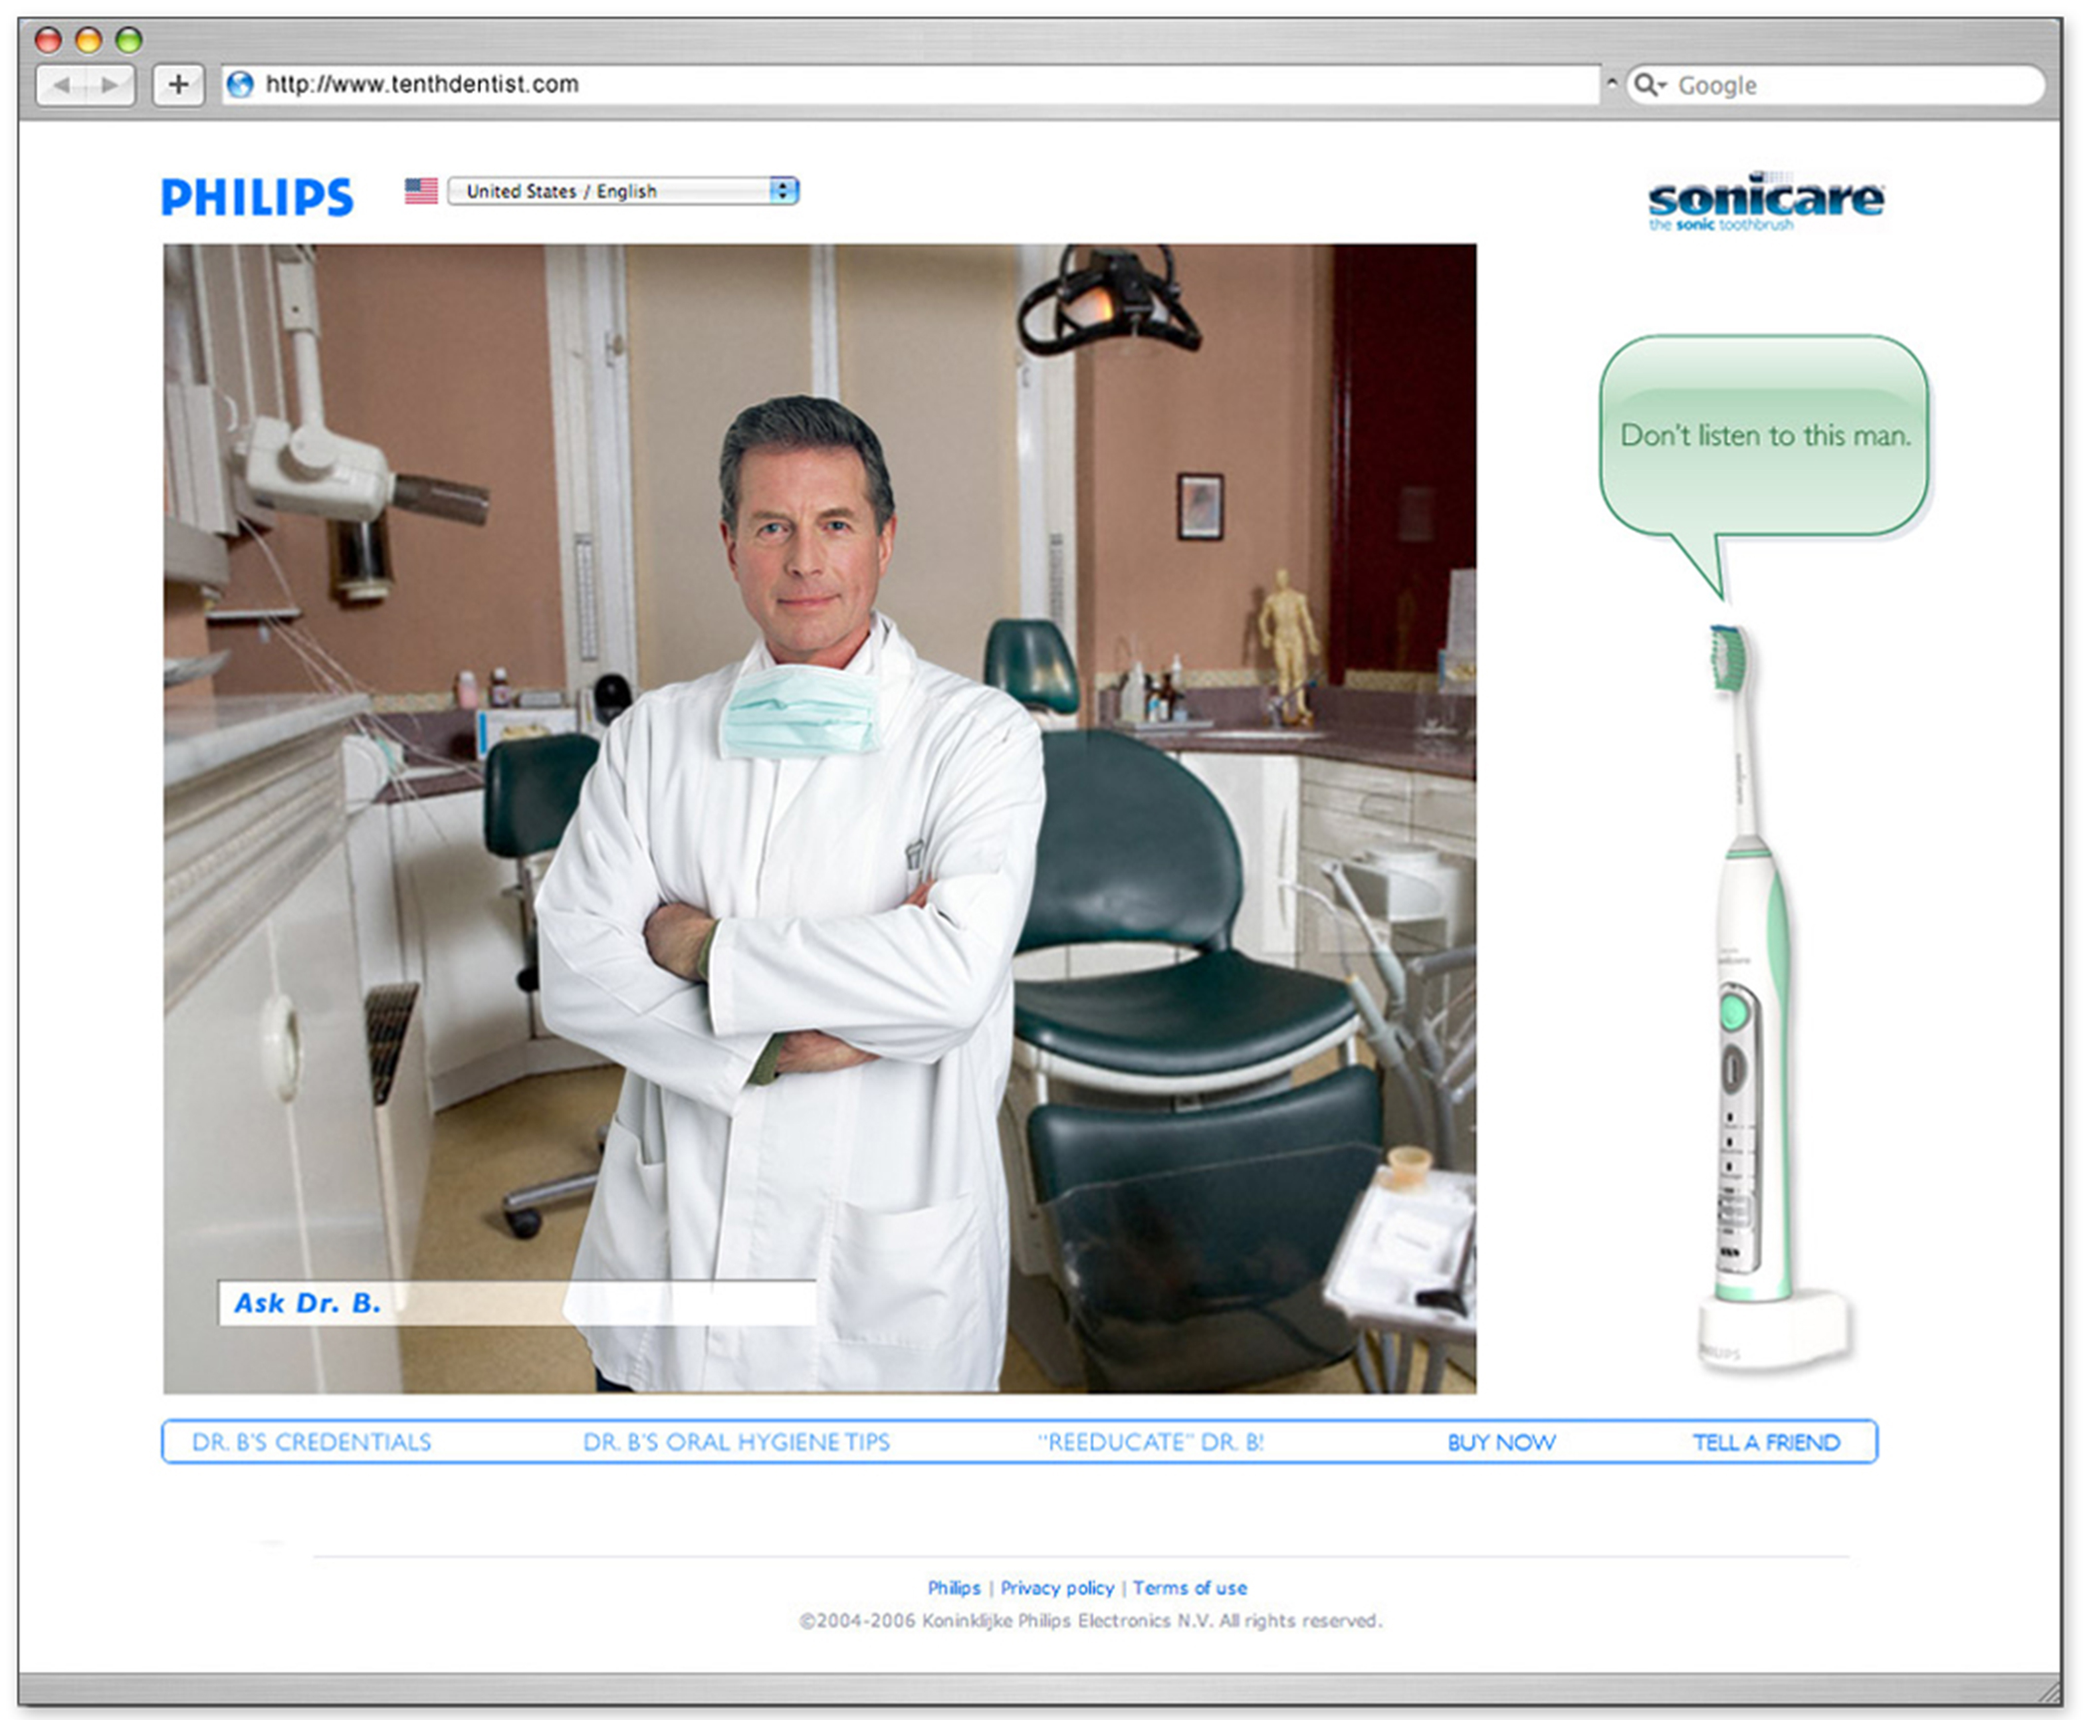
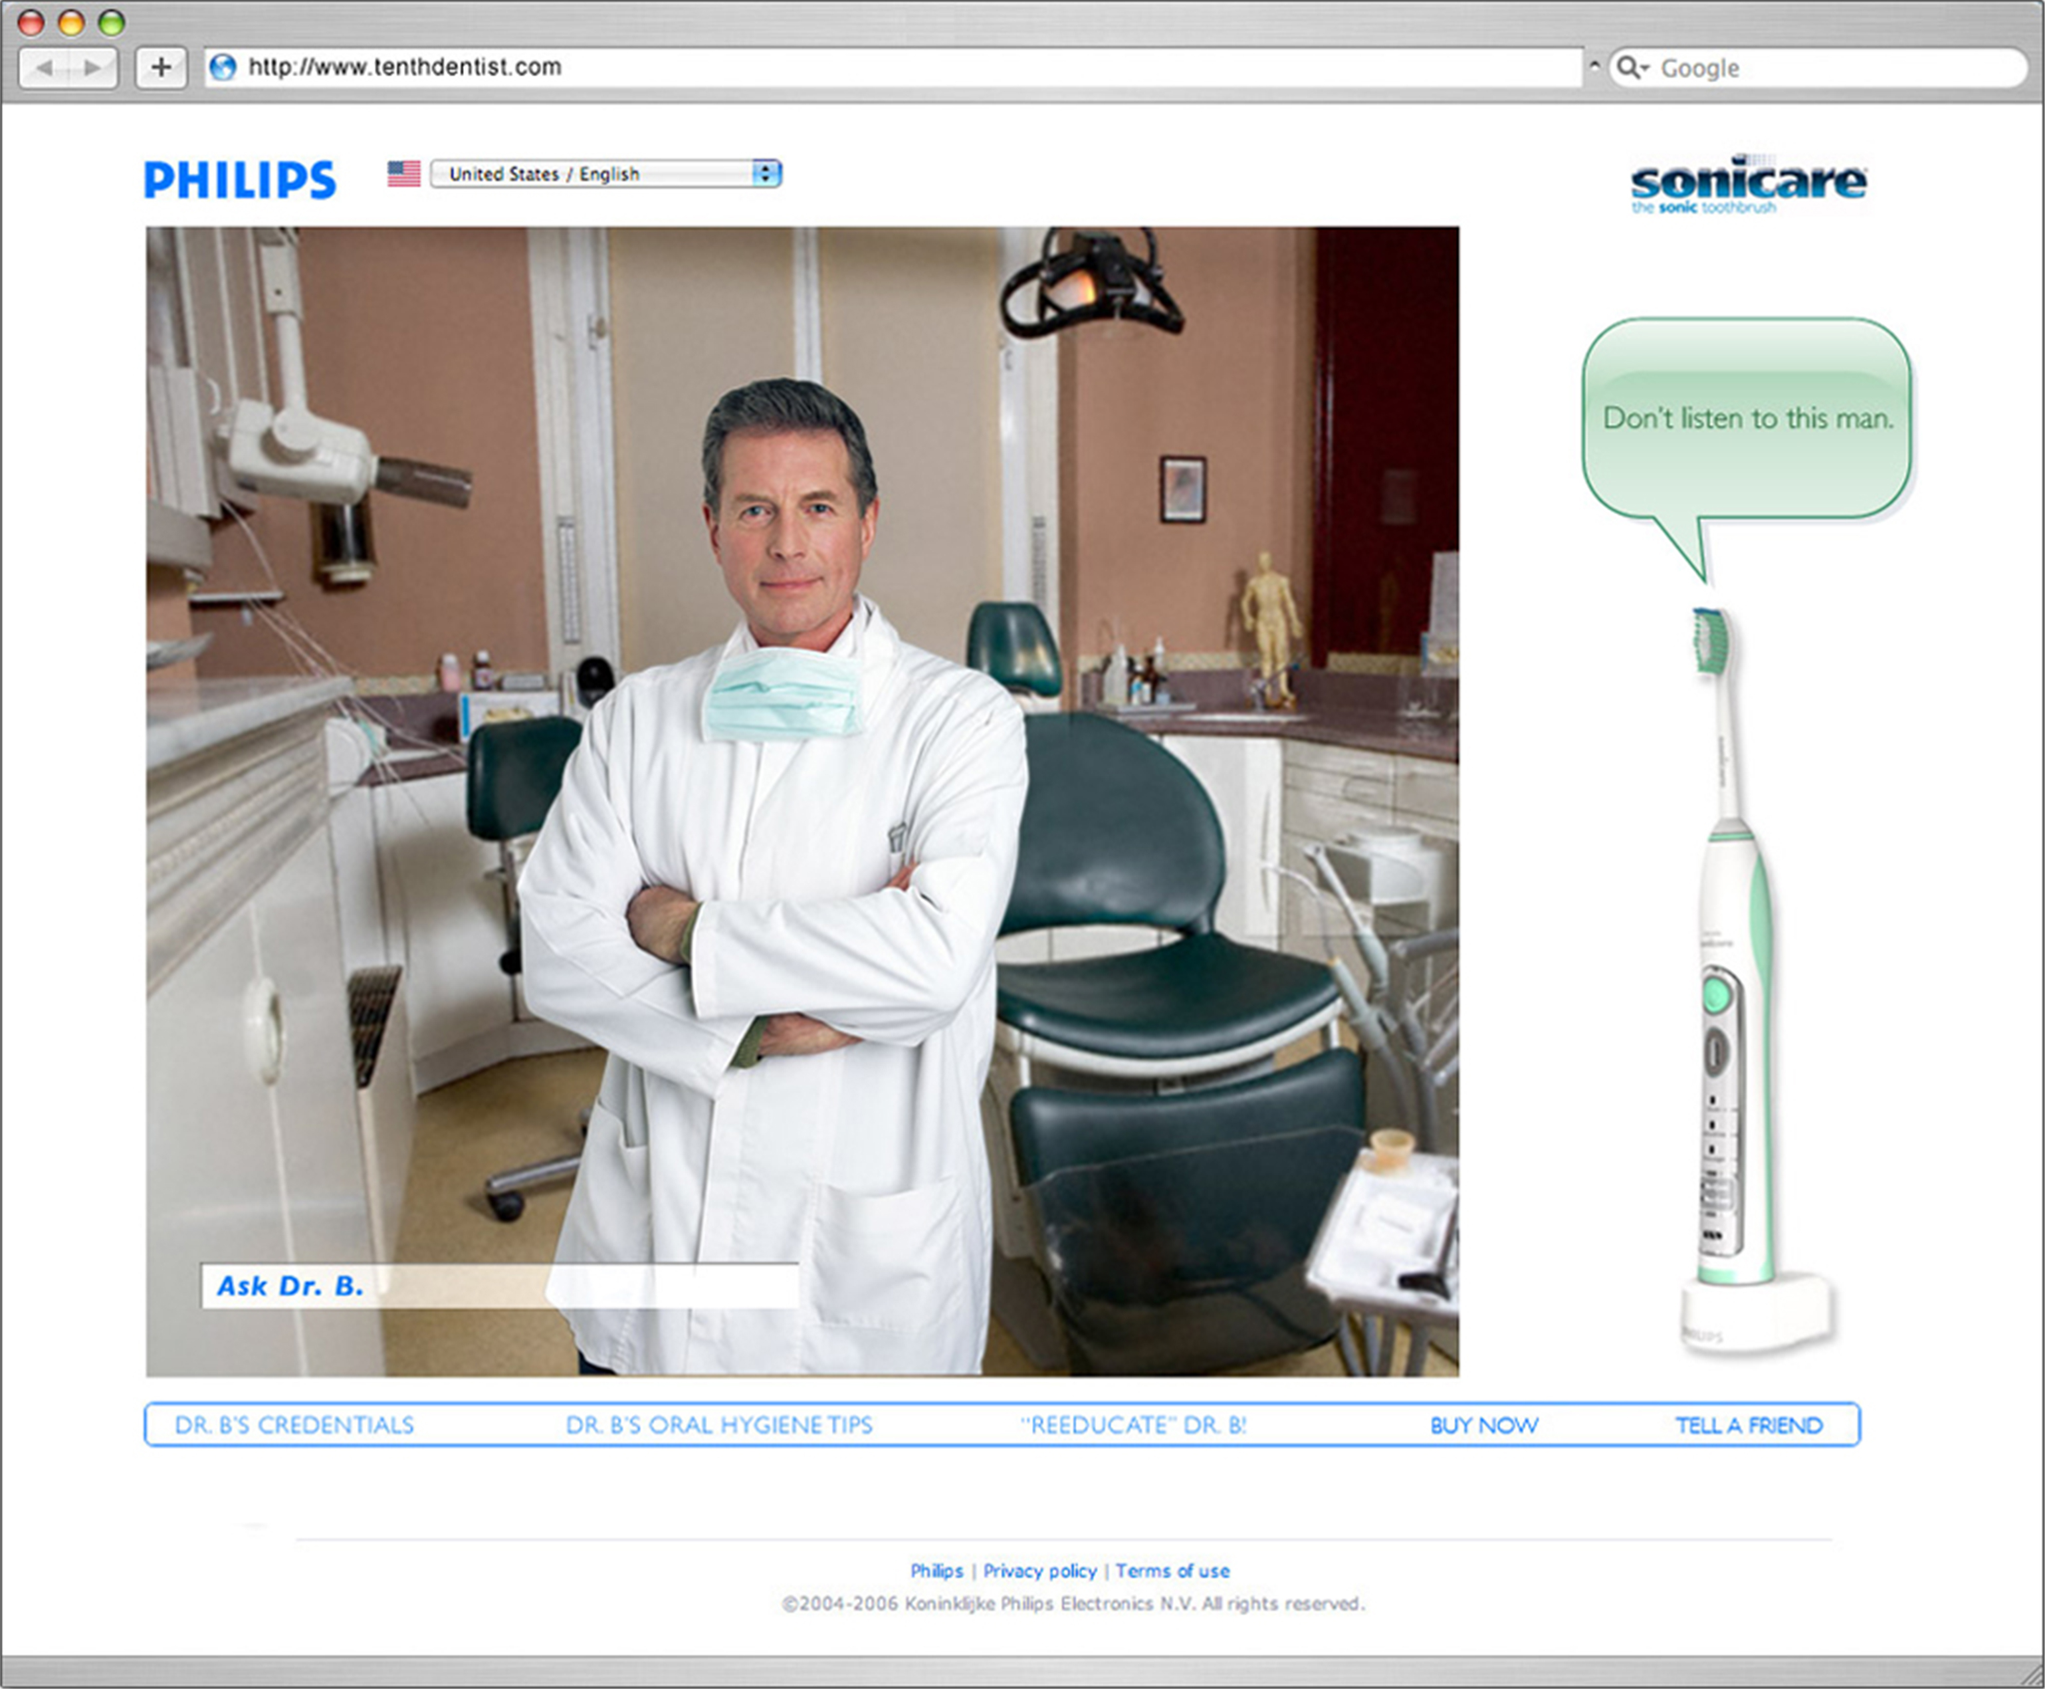
added philips frame

Changed region(s): [[0.0, 0.0, 1.0, 1.0], [0.3744, 0.5907, 0.4368, 0.6218]]

diff --git a/dev/philips.html b/dev/philips.html
@@ -29,8 +29,10 @@
       <p class="smalltxt">The answer: an idiot. Meet Barry Bloomgarden DDS. A graduate of Regional Community Technical Institute’s School of Dentistry, Barry is more knowledgeable about malpractice lawsuits than he is about oral health. Thankfully though, no matter what question you ask Dr. B, FlexCare was there to set the viewer straight.</p>
 
       <div class="photos">
-        <!-- <img src="assets/img/imgphilips/10th_Dentist_Full_Frame.jpg"/> -->
         <img src="assets/img/imgphilips/Tenth_Dentist_Concept_Frame.jpg"/>
+      </div>
+      <div class="photos spacer">
+        <img src="assets/img/imgphilips/10th_Dentist_Full_Frame.jpg"/>
       </div>
 
       <div class="footer">
